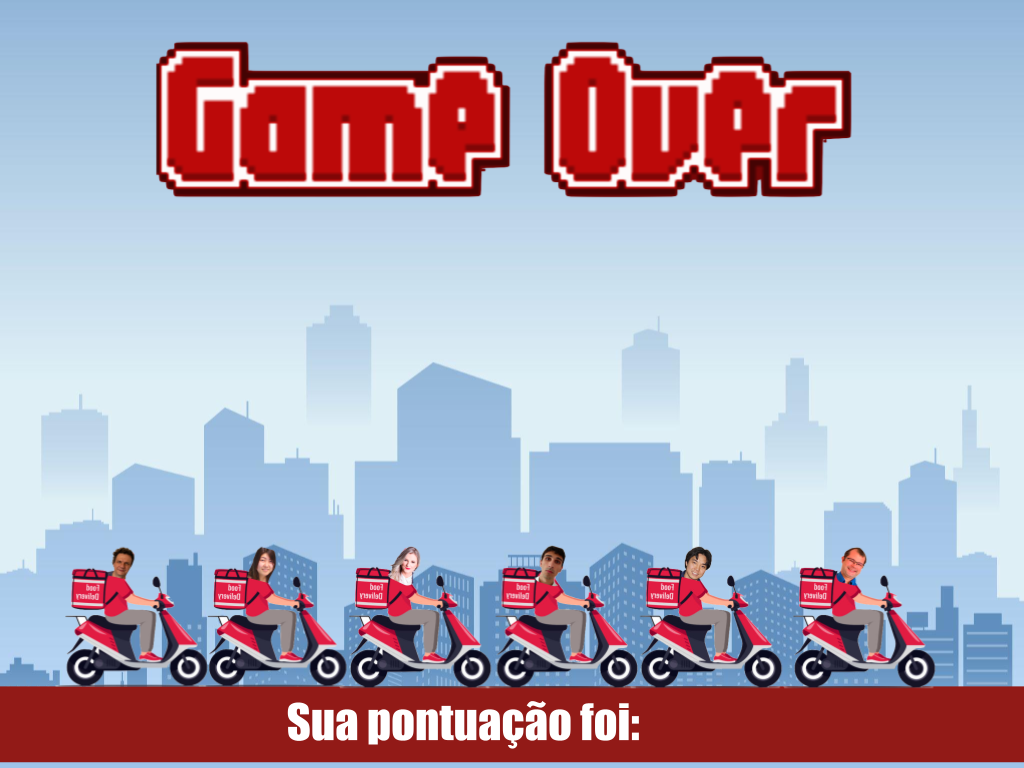
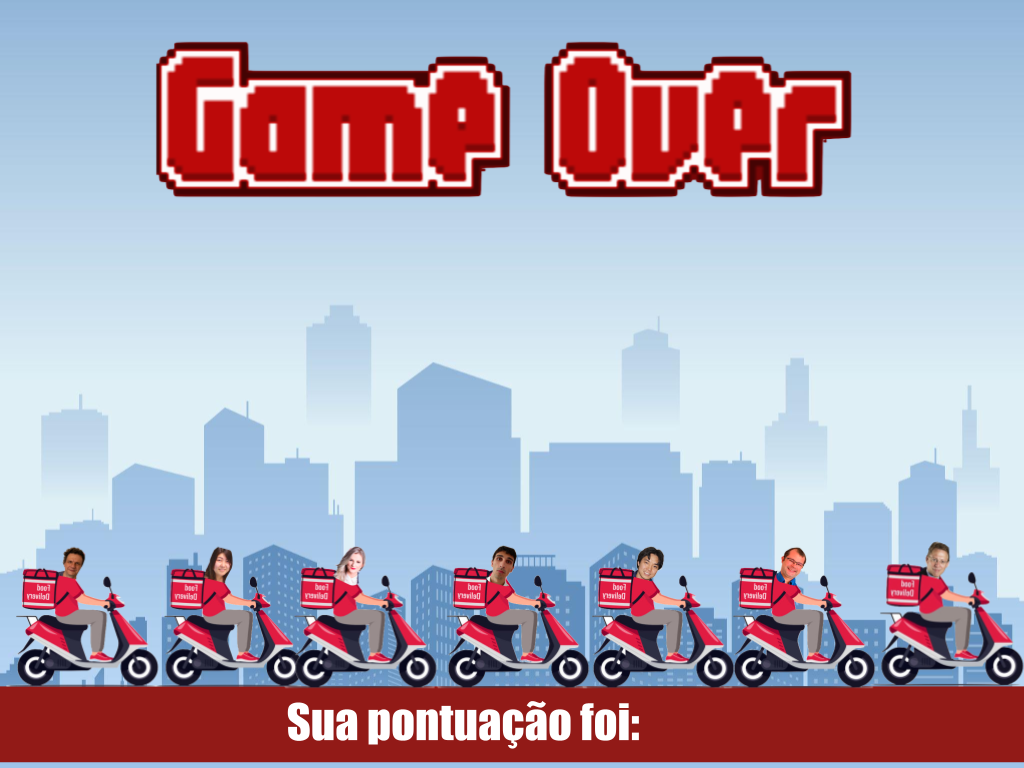
adcionando marcos

Changed region(s): [[0.0, 0.6875, 1.0, 0.9062]]

diff --git a/Jogo Devlife/assets.py b/Jogo Devlife/assets.py
@@ -11,6 +11,7 @@ MOTO_FABRICIO = 'moto_fabricio'
 MOTO_IGOR = 'moto_igor'
 MOTO_GRAZI = 'moto_grazi'
 MOTO_MIRANDA = 'moto_miranda'
+MOTO_MARCOS = 'moto_marcos'
 BUTTON = 'button'
 GETREADY = 'get_ready'
 SCORE_FONT = 'score_font'
@@ -37,6 +38,8 @@ def load_assets():
     assets[MOTO_GRAZI] = pygame.transform.scale(assets['moto_grazi'], (75, 75))
     assets[MOTO_MIRANDA] = pygame.image.load(os.path.join(IMG_DIR, 'Miranda.png')).convert_alpha()
     assets[MOTO_MIRANDA] = pygame.transform.scale(assets['moto_miranda'], (75, 75))
+    assets[MOTO_MARCOS] = pygame.image.load(os.path.join(IMG_DIR, 'Marcos.png')).convert_alpha()
+    assets[MOTO_MARCOS] = pygame.transform.scale(assets['moto_marcos'], (75, 75))
     assets[BUTTON] = pygame.image.load(os.path.join(IMG_DIR, 'button.png')).convert()
     assets[GETREADY] = pygame.image.load(os.path.join(IMG_DIR, 'getready.png')).convert_alpha()
     assets[GETREADY] = pygame.transform.scale(assets['get_ready'], (600, 500))

diff --git a/Jogo Devlife/tela_jogo.py b/Jogo Devlife/tela_jogo.py
@@ -32,6 +32,8 @@ def game_screen(window, personagem):
     assets['moto_grazi'] = pygame.transform.scale(assets['moto_grazi'], (70, 70))
     assets['moto_miranda'] = pygame.image.load('Assets/img/Miranda.png').convert_alpha()
     assets['moto_miranda'] = pygame.transform.scale(assets['moto_miranda'], (70, 70))
+    assets['moto_marcos'] = pygame.image.load('Assets/img/Marcos.png').convert_alpha()
+    assets['moto_marcos'] = pygame.transform.scale(assets['moto_marcos'], (70, 70))
     assets['predio'] = pygame.image.load('assets/img/predio.png').convert_alpha()
     assets['button'] = pygame.image.load('assets/img/button.png')
     assets['get_ready'] = pygame.image.load('assets/img/getready.png').convert_alpha()

diff --git a/Jogo Devlife/tela_selecao.py b/Jogo Devlife/tela_selecao.py
@@ -29,6 +29,8 @@ def tela_selecao(screen: pygame.Surface):
     assets['moto_grazi'] = pygame.transform.scale(assets['moto_grazi'], (150, 150))
     assets['moto_miranda'] = pygame.image.load('Assets/img/Miranda.png').convert_alpha()
     assets['moto_miranda'] = pygame.transform.scale(assets['moto_miranda'], (150, 150))
+    assets['moto_marcos'] = pygame.image.load('Assets/img/Marcos.png').convert_alpha()
+    assets['moto_marcos'] = pygame.transform.scale(assets['moto_marcos'], (150, 150))
 
     screen = pygame.display.set_mode((WIDTH, HEIGHT))
 
